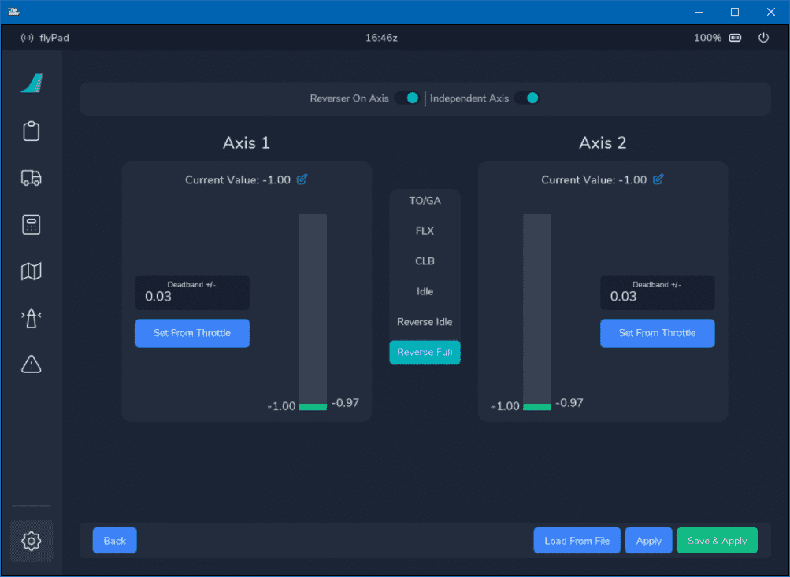
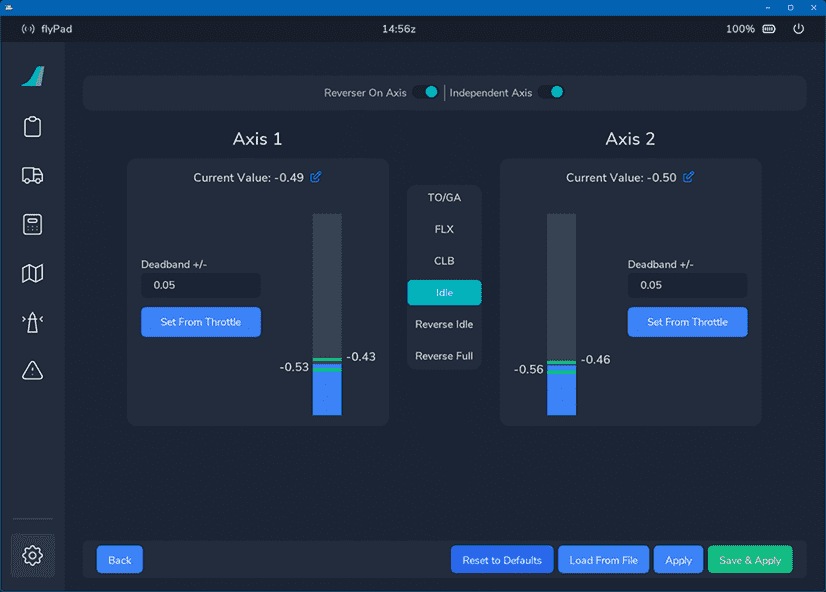
Adding reset section to throttle calibration guide

diff --git a/docs/fbw-a32nx/feature-guides/flyPad/throttle-calibration.md b/docs/fbw-a32nx/feature-guides/flyPad/throttle-calibration.md
@@ -48,11 +48,8 @@ The major differences between different throttle controllers are:
 }
 </style>
 
-## Resetting To Defaults
-
-If you have done previous calibration or if you have trouble with the calibration you can reset the calibration to its default values by press the reset button.
-
-
+!!! tip "Resetting to Defaults"
+    Before you start with calibration consider resetting your settings to default values as described here: [Resetting To Defaults](#resetting-to-defaults)
 
 ## Microsoft Flight Simulator Control Options
 
@@ -619,6 +616,14 @@ Click on "Save & Apply".
 ---
 
 ## Troubleshooting
+
+### Resetting To Defaults
+
+If you have done a previous calibration or if you have trouble with the calibration you can reset the calibration to its default values by pressing the reset button.
+
+![EFB-Calibration-Page](../../assets/flypad/throttle-calibration/efb-calibration-page-reset.png "EFB-Calibration-Page"){loading=lazy}
+
+After click the Reset button you can also click the Apply button so the default settings are send to the aircraft.
 
 ### Detents Overlap
 
